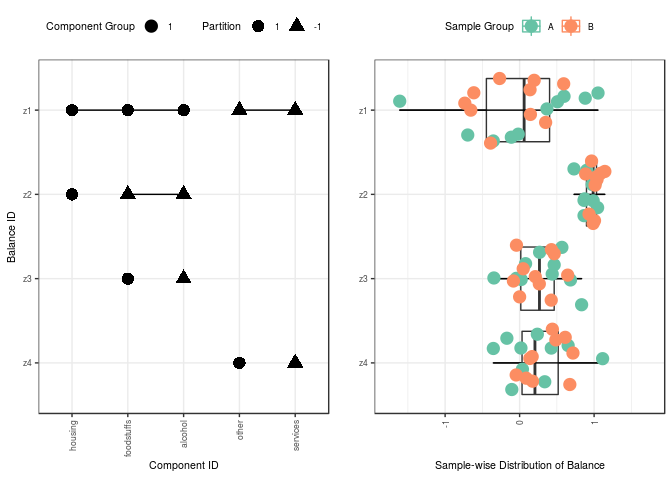
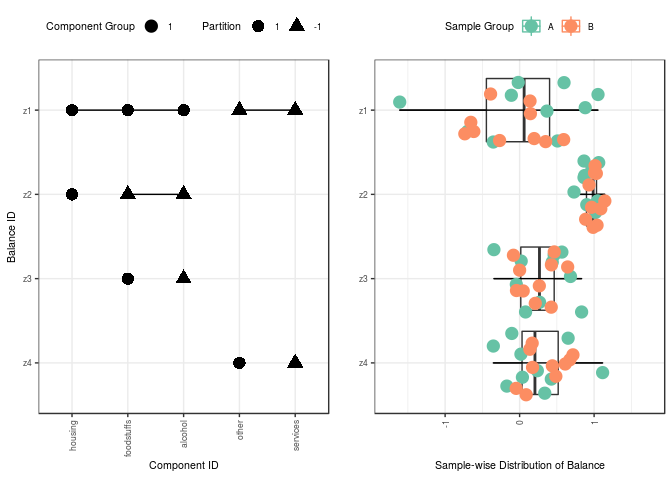
Stage stable balance 0.0.6 with line width by var

Changed region(s): [[0.7188, 0.5, 0.9062, 0.8438], [0.6875, 0.1562, 0.9062, 0.3125], [0.8438, 0.3125, 0.9062, 0.5]]

diff --git a/NEWS.md b/NEWS.md
@@ -1,3 +1,9 @@
+## balance 0.0.6
+---------------------
+* Update `balance` method
+    * Use `weigh.var` argument to weigh line width by explained variance
+    * Use `size.line` argument to alter line width factor
+
 ## balance 0.0.5
 ---------------------
 * Update `balance` method
